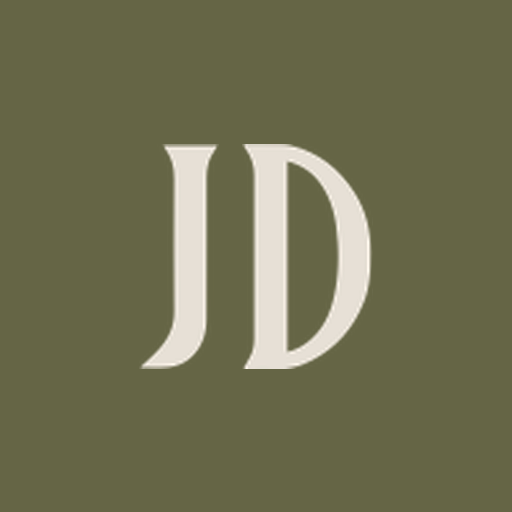
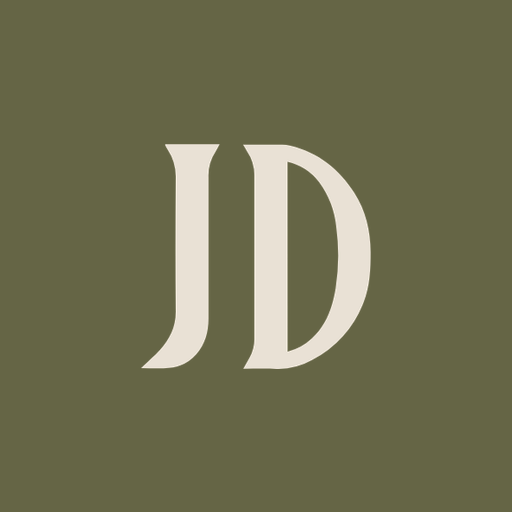
Passar as marcas ao vector que a Joana mandou
O JoanaSVG.zip trazia seis marcas em SVG. Abri-as e medi-as uma a uma antes
de tocar em nada, porque nem todas servem:

  13   "JOANA" sozinho
  14   "JOANA DOMINGUES" numa linha
  15   as duas linhas, com o JOANA centrado
  16   as duas linhas mais "design", tudo centrado
  17   igual ao 15 (mesmo desenho, outra exportação)
  18   as duas linhas mais "design", tudo alinhado à esquerda

O site usa a versão alinhada à esquerda, que é a do Figma. Comparei a
silhueta do 17 com o PNG que lá estava e deu 0,565 de sobreposição -- não
batia, e o mapa de diferenças mostrou porquê: só o "JOANA" está deslocado,
porque no 15/17 ele está centrado sobre o "DOMINGUES". Boa altura para não
ter trocado às cegas.

A que serve é a 18. Separei-lhe os caminhos pelas caixas de cada um
(medidas no browser, não adivinhadas): cinco caminhos do JOANA em y 0..86,5
e x 0..264,8, nove do DOMINGUES em y 107,7..193,9, seis do "design" em
y 276,2..298,7. Dela saíram três ficheiros:

  marca-joana-domingues.svg   as duas linhas          7,5 KB (era 23 KB)
  marca-design.svg            só o "design"           2,3 KB (era 4,6 KB)
  marca-rodape.svg            as duas linhas + design 9,6 KB (era 19 KB)

Conferido contra os PNG que substituem: 0,963 de sobreposição na marca, com
o JOANA a começar no mesmo pixel (x 0 contra x 1); o "design" fica com a
tinta em x 2..174 e y 4..26 contra x 2..175 e y 4..26, por isso entra no
lugar sem mexer em nenhuma medida da página -- escolhi-lhe a caixa de
[…]

diff --git a/src/app/home/page.tsx b/src/app/home/page.tsx
@@ -229,21 +229,21 @@ export default function HomePage() {
               <div className="flex w-full flex-wrap items-center justify-between gap-y-8">
                 <h1>
                   <Image
-                    src="/home/marca-joana-domingues.png"
+                    src="/home/marca-joana-domingues.svg"
                     alt="Joana Domingues"
                     width={527}
-                    height={195}
+                    height={194}
                     priority
-                    sizes="(max-width: 1024px) 78vw, 50vw"
+                    unoptimized
                     className="h-auto w-[clamp(13rem,49.8vw,52rem)]"
                   />
                 </h1>
                 <Image
-                  src="/home/marca-design.png"
+                  src="/home/marca-design.svg"
                   alt="Design"
                   width={191}
-                  height={34}
-                  sizes="(max-width: 1024px) 30vw, 14vw"
+                  height={33}
+                  unoptimized
                   className="h-auto w-[clamp(6rem,13.5vw,14rem)]"
                 />
               </div>
@@ -421,8 +421,8 @@ export default function HomePage() {
           <Image
             src="/home/marca-rodape.svg"
             alt="Joana Domingues Design"
-            width={231}
-            height={131}
+            width={527}
+            height={306}
             unoptimized
             className="h-auto w-[clamp(7rem,13.8vw,14.5rem)]"
           />

diff --git a/src/app/page.tsx b/src/app/page.tsx
@@ -79,12 +79,12 @@ export default function EmBreve() {
           {/* A marca avança 2,7% para fora da margem das linhas de baixo, como
               no ficheiro: a tinta começa aos 184 e o "Soon" aos 234. */}
           <Image
-            src="/home/marca-joana-domingues.png"
+            src="/home/marca-joana-domingues.svg"
             alt="Joana Domingues"
             width={527}
-            height={195}
+            height={194}
             priority
-            sizes="(max-width: 1024px) 72vw, 45vw"
+            unoptimized
             data-entrada
             className="-ml-[2.7vw] h-auto w-[clamp(17rem,44.9vw,52rem)]"
           />
@@ -92,11 +92,11 @@ export default function EmBreve() {
               ficheiro. Deslocado por `top` e não por `transform`: a animação
               de entrada escreve `transform`, e apagava-o. */}
           <Image
-            src="/home/marca-design.png"
+            src="/home/marca-design.svg"
             alt="Design"
             width={191}
-            height={34}
-            sizes="(max-width: 1024px) 28vw, 13vw"
+            height={33}
+            unoptimized
             data-entrada
             style={{ "--atraso": 0.12 } as CSSProperties}
             className="relative top-[0.81vw] h-auto w-[clamp(5rem,12.16vw,14rem)]"
